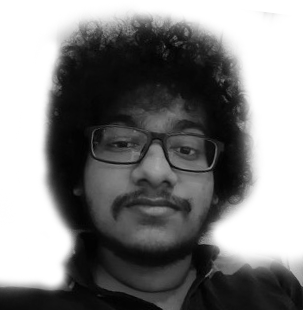
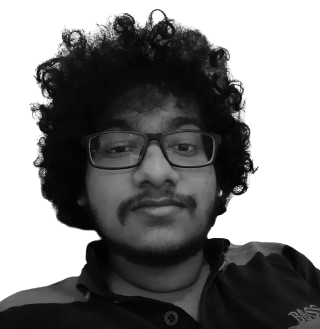
AboutsUs page team member images added

diff --git a/web-frontend/src/pages/aboutUs/AboutUs.jsx b/web-frontend/src/pages/aboutUs/AboutUs.jsx
@@ -10,7 +10,7 @@ import nathindu from '../../assests/nathindu.png';
 import malith from '../../assests/malith.jpg';
 import rashad from '../../assests/rashad.jpg';
 import adeesha from '../../assests/manthila.png';
-import abilash from '../../assests/abilash.jpg';
+import abilash from '../../assests/abilash.png';
 
 const AboutUs = () => {
   return (
@@ -356,7 +356,7 @@ const AboutUs = () => {
               <div className="cardAbout">
                 <img
                   src={abilash}
-                  alt="abhilash"
+                  alt="abilash"
                   style={{
                     width: '50%',
                     marginLeft: '25%',
